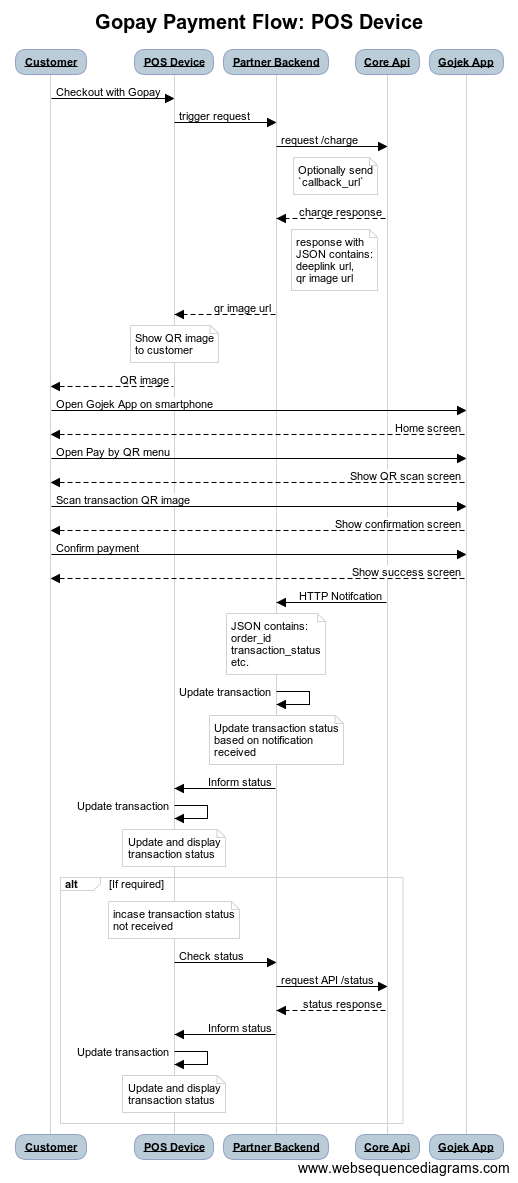
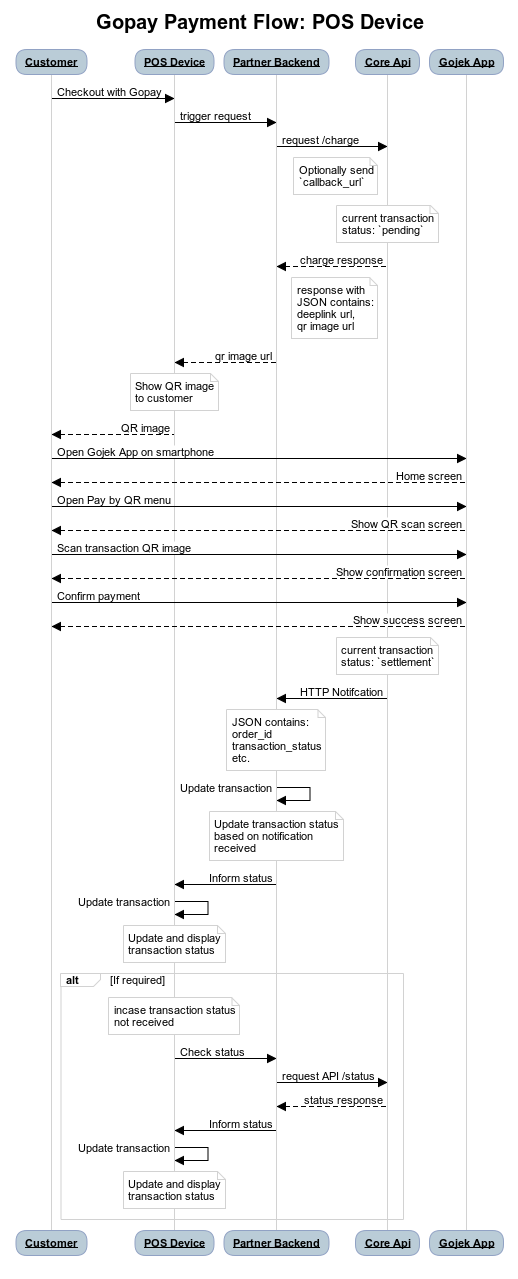
update images and add va flow

Changed region(s): [[0.0309, 0.0, 0.9884, 1.0]]

diff --git a/faq-general.md b/faq-general.md
@@ -315,11 +315,16 @@ Please refer to below sequence diagram,
 
 **Deeplink Mode**:
 
-![Gopay Deeplink flow](./asset/image/gopay_coreapi-deeplink.png)
+![Gopay Deeplink flow](./asset/image/gopay_coreapi_deeplink.png)
 
 **QR Mode**:
 
 ![Gopay QR flow](./asset/image/gopay_coreapi_qr.png)
+
+### Can you explain the flow of Bank Transfer / VA transaction?
+Please refer to below sequence diagram:
+
+![Bank Transfer VA flow](./asset/image/va_coreapi.png)
 
 ### Merchant updated iOS SDK from v1.14.7 and below, but old implementation did not work after update. How to resolve it?
 
